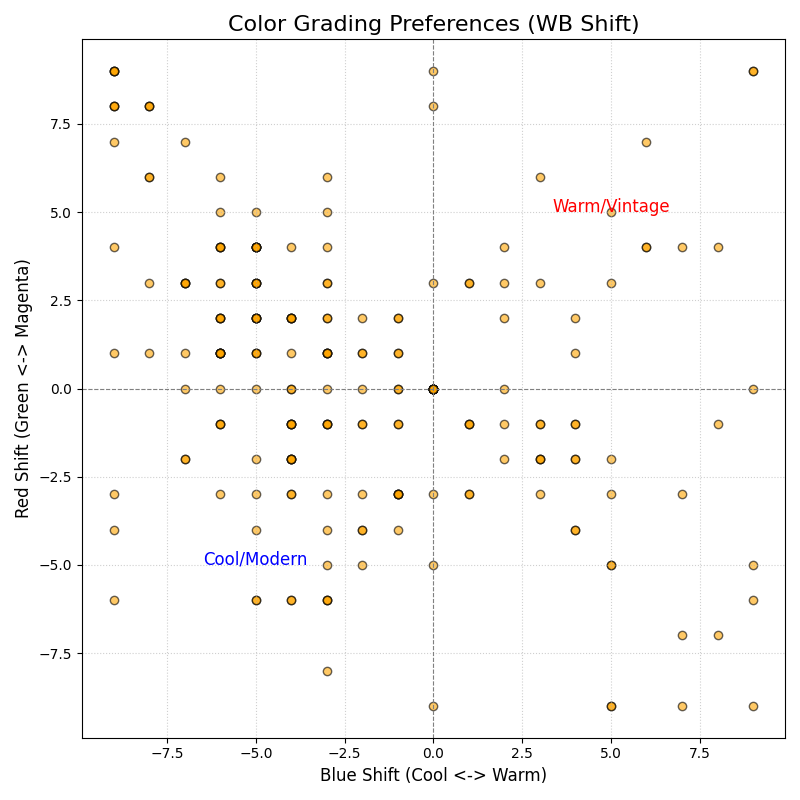
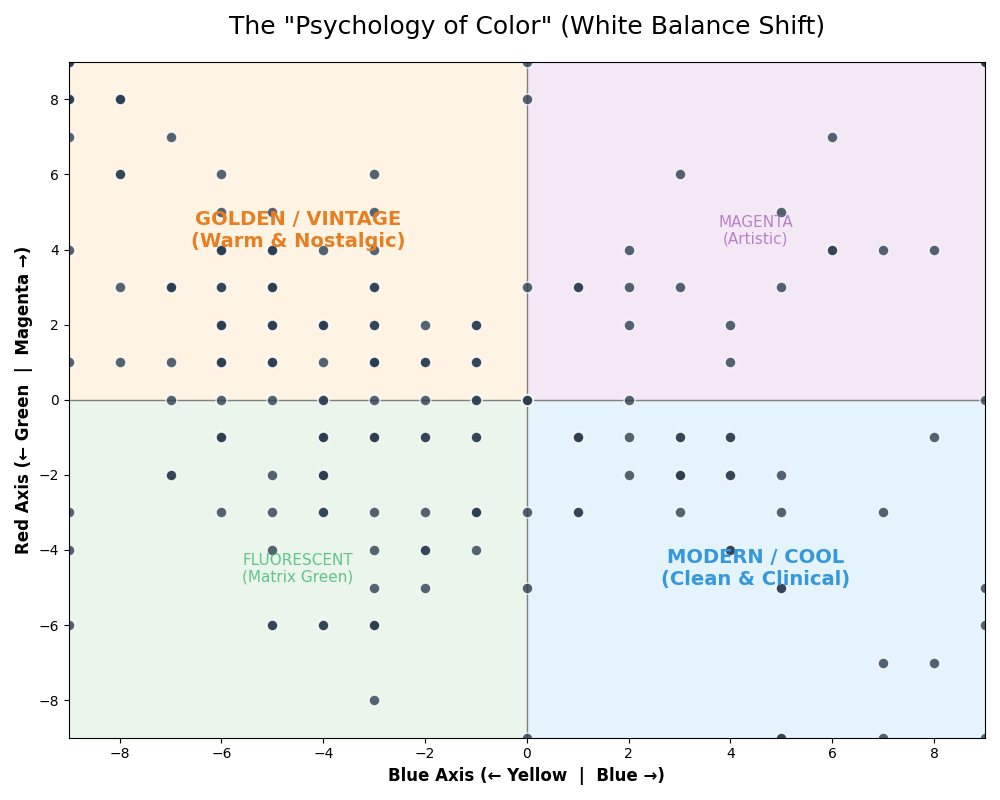
Update charts and text for better layman understanding

diff --git a/index.html b/index.html
@@ -331,16 +331,18 @@
 
         <!-- 2. WB -->
         <div class="card">
-            <h2>2. The Psychology of Warmth</h2>
-            <p>The data reveals a massive preference for <strong>Warm/Vintage</strong> tones (Red+, Blue-).</p>
+            <h2>2. The Psychology of Color</h2>
+            <p>The data shows a huge community preference for the "Golden Hour" look.</p>
 
             <div class="tech-analysis">
-                <h4>Technical Analysis</h4>
+                <h4>How to read this chart:</h4>
                 <ul>
-                    <li><strong>The Nostalgia Curve:</strong> Psychologically, warm tones equate to memory and comfort.
-                        Cool tones feel clinical.</li>
-                    <li><strong>Color Grading:</strong> The strong push towards +Red neutralizes Fuji's magenta shift,
-                        while -Blue adds cinematic yellow grading.</li>
+                    <li><strong><span style="color: #e67e22;">●</span> The Orange Zone (Top-Left):</strong> This is
+                        "Vintage". Most recipes sit here because shifting Yellow/Red enhances the nostalgic feel.</li>
+                    <li><strong><span style="color: #3498db;">●</span> The Blue Zone (Bottom-Right):</strong> This is
+                        "Modern/Clinical". Very few people want this look.</li>
+                    <li><strong>The Center:</strong> This is "Accurate". Almost nobody wants accuracy; they want
+                        <em>mood</em>.</li>
                 </ul>
             </div>
 

diff --git a/analyze_trends.py b/analyze_trends.py
@@ -41,16 +41,40 @@ def analyze_trends():
     """
     df_wb_all = pd.read_sql_query(query_wb_all, conn)
     
-    plt.figure(figsize=(8, 8))
-    plt.scatter(df_wb_all['wb_shift_blue'], df_wb_all['wb_shift_red'], alpha=0.6, c='orange', edgecolors='k')
-    plt.axhline(0, color='gray', linestyle='--', linewidth=0.8)
-    plt.axvline(0, color='gray', linestyle='--', linewidth=0.8)
-    plt.title('Color Grading Preferences (WB Shift)', fontsize=16)
-    plt.xlabel('Blue Shift (Cool <-> Warm)', fontsize=12)
-    plt.ylabel('Red Shift (Green <-> Magenta)', fontsize=12)
-    plt.grid(True, linestyle=':', alpha=0.6)
-    plt.text(5, 5, 'Warm/Vintage', fontsize=12, color='red', ha='center')
-    plt.text(-5, -5, 'Cool/Modern', fontsize=12, color='blue', ha='center')
+    plt.figure(figsize=(10, 8))
+    
+    # Define quadrant limits (approx Fuji scale -9 to +9)
+    plt.xlim(-9, 9)
+    plt.ylim(-9, 9)
+    
+    # Add colored backgrounds to quadrants to visualize the look
+    # Top-Left: -Blue (Yellow) + +Red = Golden/Orange
+    plt.fill_between([-9, 0], 0, 9, color='#fff3e0', alpha=0.9, zorder=0) 
+    plt.text(-4.5, 4.5, "GOLDEN / VINTAGE\n(Warm & Nostalgic)", ha='center', va='center', fontsize=14, color='#e67e22', fontweight='bold')
+
+    # Bottom-Right: +Blue + -Red (Cyan) = Cool Blue
+    plt.fill_between([0, 9], -9, 0, color='#e3f2fd', alpha=0.9, zorder=0)
+    plt.text(4.5, -4.5, "MODERN / COOL\n(Clean & Clinical)", ha='center', va='center', fontsize=14, color='#3498db', fontweight='bold')
+    
+    # Top-Right: +Blue + +Red = Magenta/Purple
+    plt.fill_between([0, 9], 0, 9, color='#f3e5f5', alpha=0.9, zorder=0)
+    plt.text(4.5, 4.5, "MAGENTA\n(Artistic)", ha='center', va='center', fontsize=11, color='#9b59b6', alpha=0.7)
+    
+    # Bottom-Left: -Blue (Yellow) + -Red (Cyan) = Greenish
+    plt.fill_between([-9, 0], -9, 0, color='#e8f5e9', alpha=0.9, zorder=0)
+    plt.text(-4.5, -4.5, "FLUORESCENT\n(Matrix Green)", ha='center', va='center', fontsize=11, color='#27ae60', alpha=0.7)
+
+    # Plot data points on top
+    plt.scatter(df_wb_all['wb_shift_blue'], df_wb_all['wb_shift_red'], alpha=0.8, c='#2c3e50', edgecolors='white', s=60, zorder=2)
+    
+    # Axis lines
+    plt.axhline(0, color='gray', linestyle='-', linewidth=1, zorder=1)
+    plt.axvline(0, color='gray', linestyle='-', linewidth=1, zorder=1)
+    
+    plt.title('The "Psychology of Color" (White Balance Shift)', fontsize=18, pad=20)
+    plt.xlabel('Blue Axis (← Yellow  |  Blue →)', fontsize=12, fontweight='bold')
+    plt.ylabel('Red Axis (← Green  |  Magenta →)', fontsize=12, fontweight='bold')
+    
     plt.tight_layout()
     plt.savefig('images/wb_trends.png')
     plt.close()

diff --git a/README.md b/README.md
@@ -50,11 +50,13 @@ Through statistical averaging of every X100V & X100VI recipe in our database, we
 ---
 
 ### 2. Color Behavior (White Balance Shift)
-There is a massive preference for **Warm/Vintage** tones. The scatter plot below shows that most recipes shift Red positively (Green -> Magenta) and Blue negatively (Blue -> Yellow).
+The data shows a massive preference for **Warm/Vintage** tones.
 
-**Technical Analysis**:
-- **The "Nostalgia Curve"**: Psychologically, warm tones equate to "memory" and "comfort" (afternoon sun, aged paper). Cool tones feel "clinical" or "digital".
-- **Fuji's Green Cast**: Fuji sensors often lean slightly Magenta/Green. The strong push towards +Red helps neutralize this and provide better skin tones, while the -Blue shift adds that cinematic yellow color grading seen in movies.
+**How to read this chart:**
+*   **The Orange Zone (Top-Left):** This is the "Golden Hour" zone. Most recipes fall here because shifting AWAY from Blue (towards Yellow) and TOWARDS Red creates a nostalgic, afternoon-sun look.
+*   **The Blue Zone (Bottom-Right):** This is the "Modern/Clean" zone. Very few recipes aim for this cold, clinical look.
+*   **The Center:** This is neutral/accurate color. Notice how few dots are actually in the center? Nobody buys a Fuji for accuracy; they buy it for *character*.
+
 ![WB Trends](images/wb_trends.png)
 
 ---
